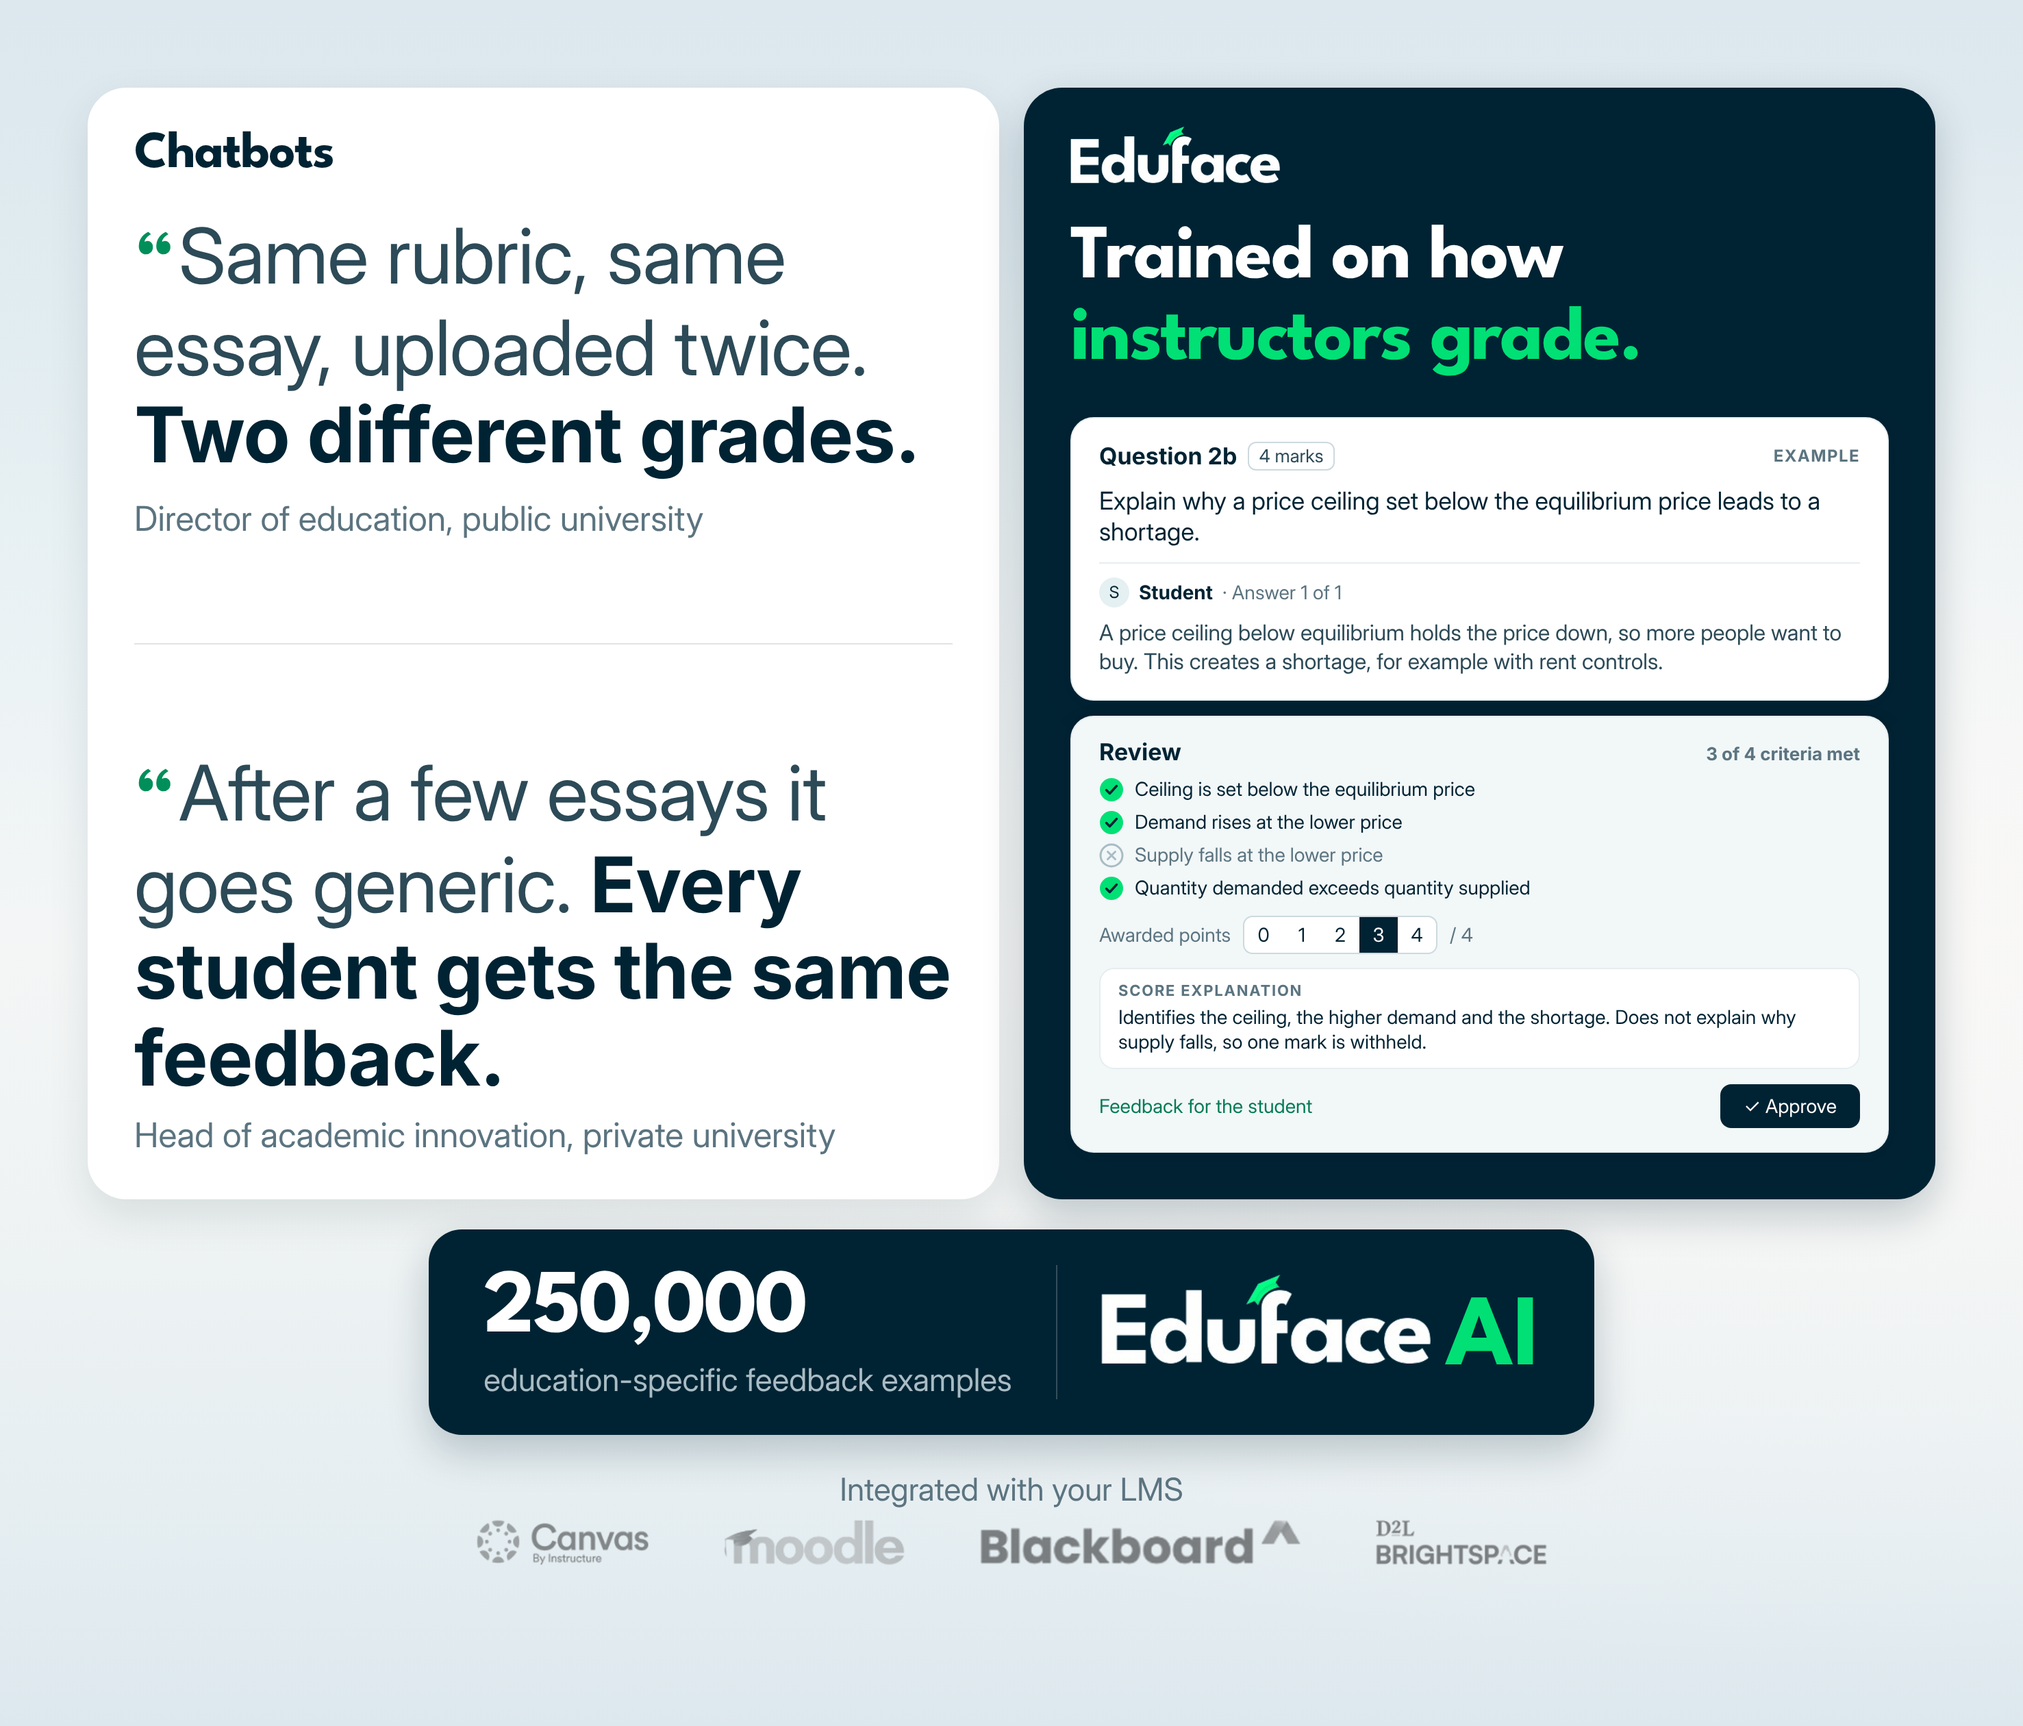
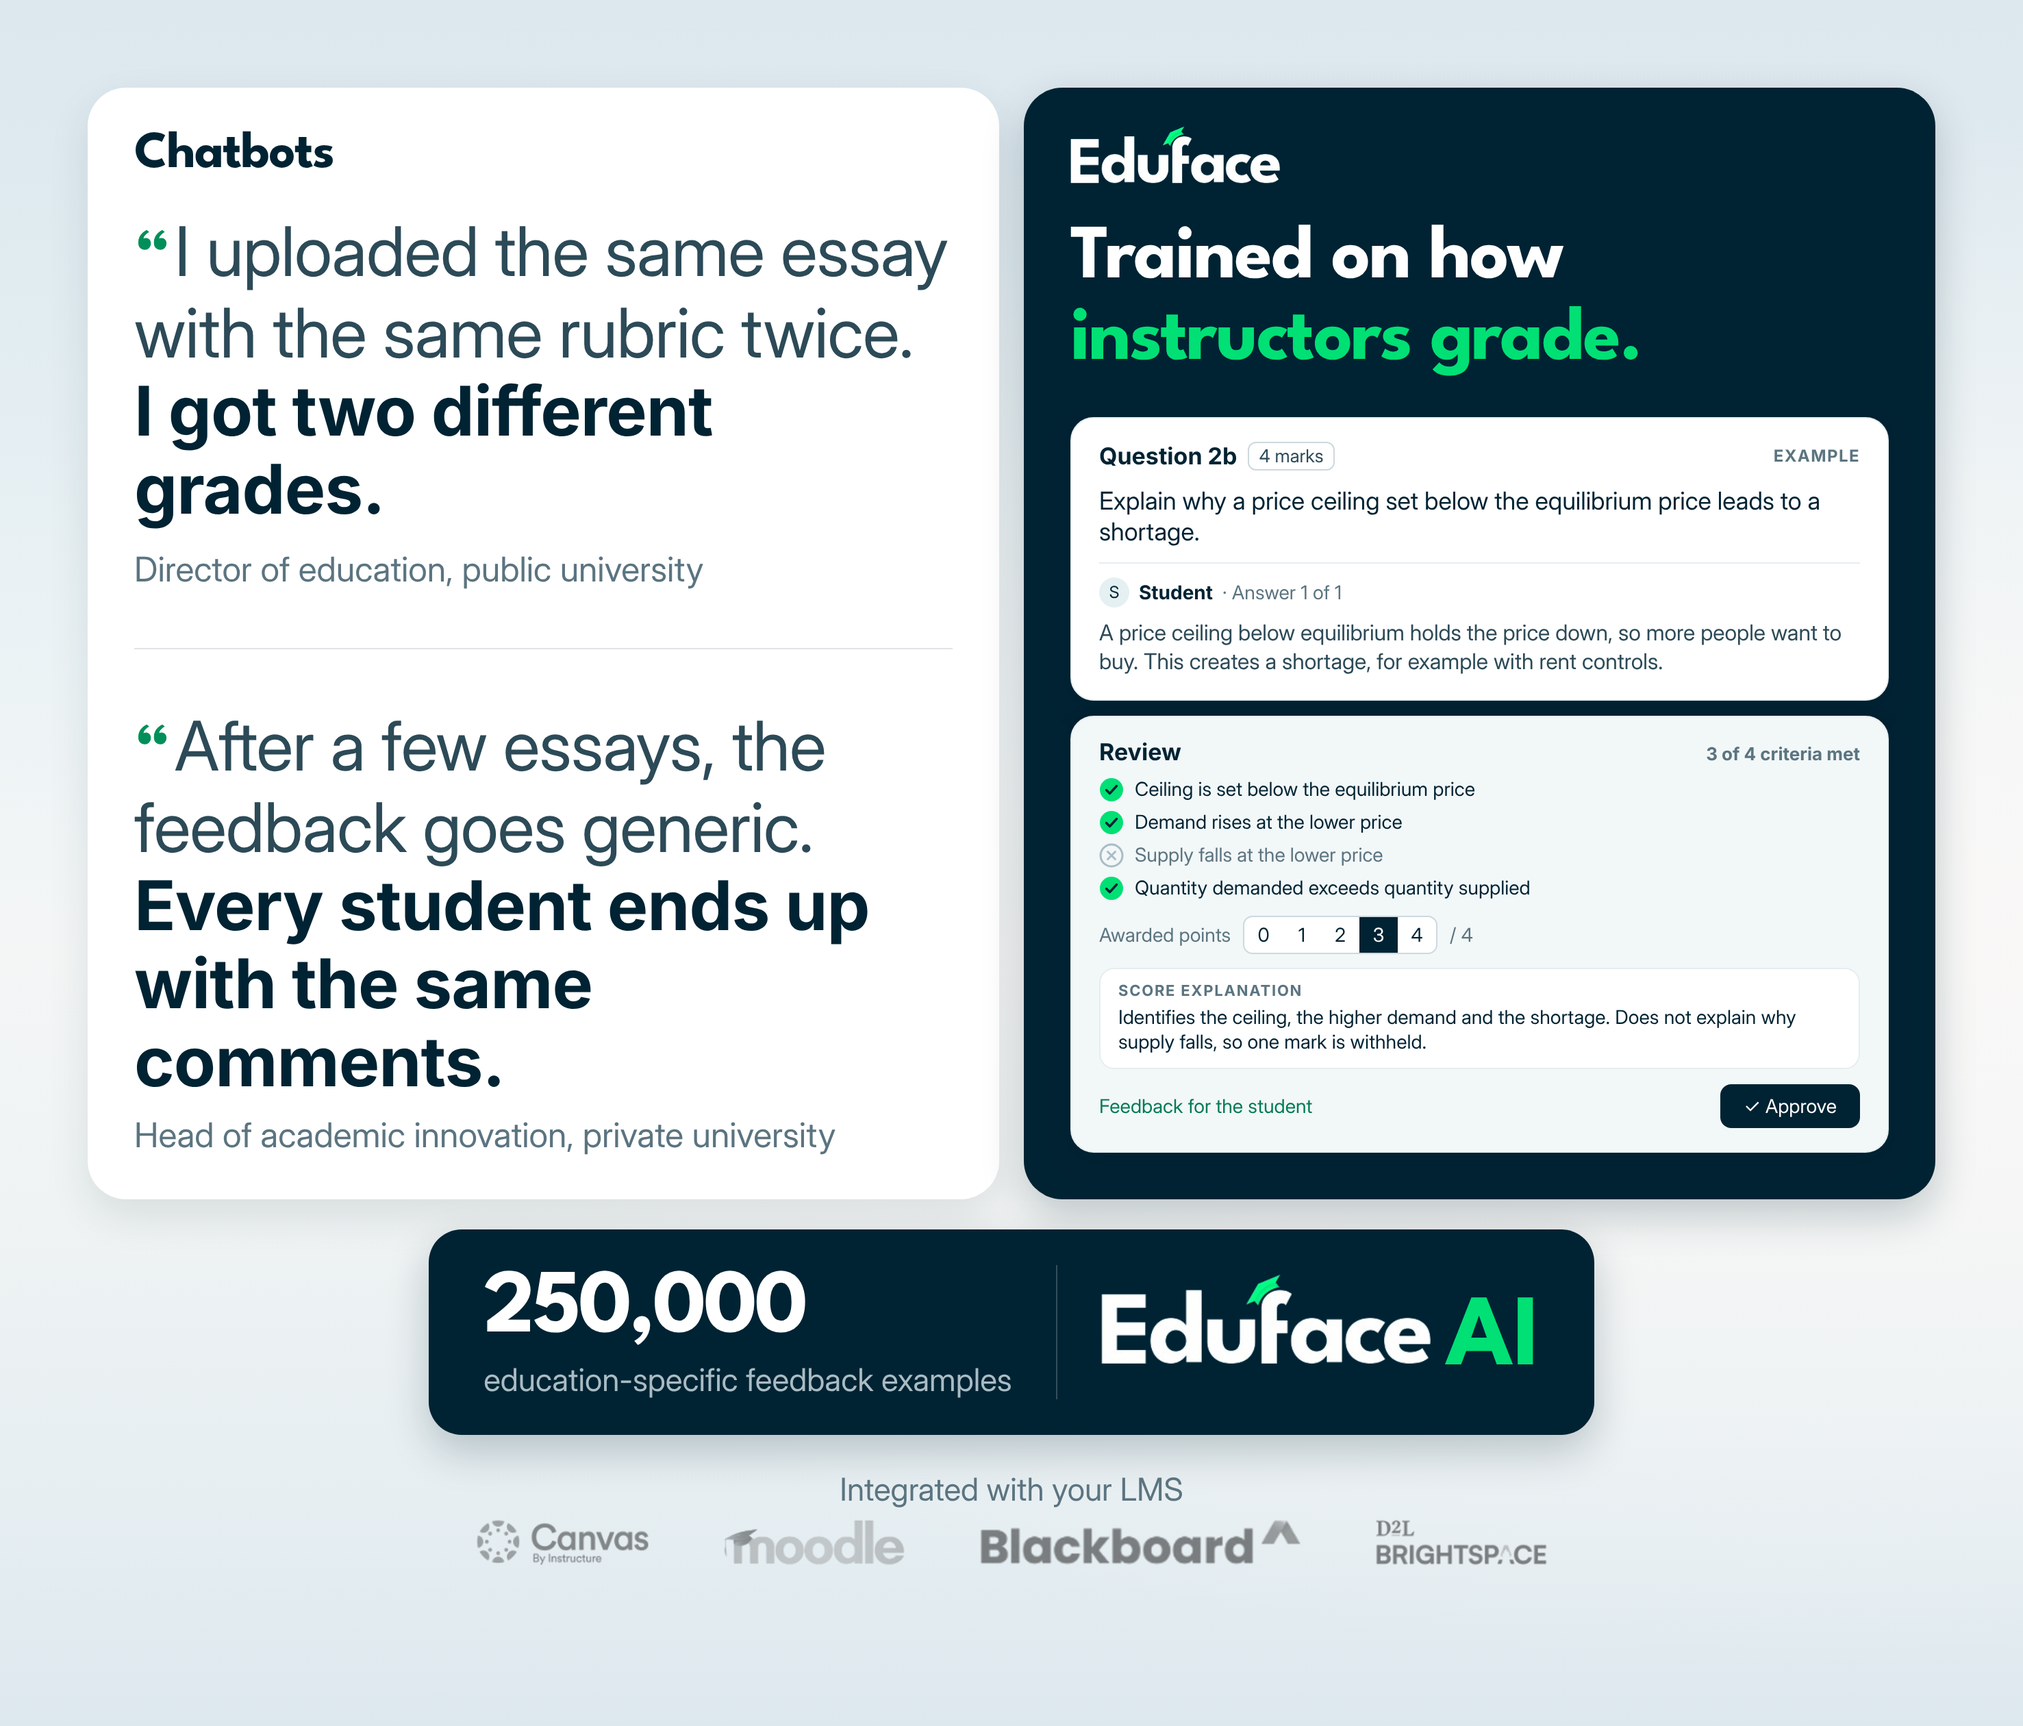
Backwall: nieuwe quotes (same essay twice, generic feedback)
Claude-Session: https://claude.ai/code/session_011t24oRcD5DFuXzKigdVhtb

Changed region(s): [[0.0623, 0.1238, 0.4672, 0.3405], [0.0623, 0.4024, 0.4672, 0.65]]

diff --git a/creatives/beurs-backwall/backwall-quotes-oud-2026-11-25.html b/creatives/beurs-backwall/backwall-quotes-oud-2026-11-25.html
@@ -1,0 +1,122 @@
+<!doctype html>
+<html lang="en">
+<head>
+<meta charset="utf-8">
+<title>Beurs backwall</title>
+<style>
+  /* Canvas: 1 px = 1 mm. Wand 2954 x 2520 mm. De kop van de gevel staat NIET op de wand.
+     Links licht = Chatbots (het probleem, twee quotes), rechts navy = Eduface (een boodschap + productscreenshot).
+     Daaronder een rustig wit blok (250,000 en Eduface AI), dan de LMS-rij gecentreerd.
+     Lettersysteem: Inter 92 (quotes) / League Spartan 92 (kop rechts) / League Spartan 76 (vlakkoppen) / Inter 46 (bronnen, labels). */
+  @font-face { font-family: "League Spartan"; font-weight: 700; src: url("../../Design/Merk/fonts/LeagueSpartan-Bold.ttf"); }
+  @font-face { font-family: "Inter"; font-weight: 400; src: url("../../Design/Merk/fonts/Inter-Regular.ttf"); }
+  @font-face { font-family: "Inter"; font-weight: 700; src: local("Inter Bold"), local("Inter-Bold"), url("file:///usr/share/fonts/opentype/inter/Inter-Bold.otf"); }
+  :root { --w: 2954px; --h: 2520px; --navy: #002333; --g: #00e075; --g6: #008f5a; --i7: #2c4a57; --i5: #5b7480; --i3: #a9bcc4; --i50: #f3f7f8; }
+  * { margin: 0; box-sizing: border-box; }
+  html, body { width: var(--w); height: var(--h); }
+  .wall {
+    position: relative; width: var(--w); height: var(--h); overflow: hidden; color: var(--navy);
+    background:
+      radial-gradient(ellipse 80% 45% at 90% 52%, #f9f8f7 0%, rgba(249,248,247,0) 100%),
+      linear-gradient(180deg, #dce7ee 0%, #e2edf1 20%, #ecf3f5 40%, #f4f6f6 55%, #eff3f3 70%, #e4edf1 90%, #dde8ee 100%);
+  }
+  .g { position: absolute; left: 128px; top: 128px; width: 2698px; display: grid; grid-template-columns: 1331px 1331px; column-gap: 36px; }
+  .pl, .pr { border-radius: 56px; box-shadow: 0 24px 60px rgba(0,35,51,.10); }
+  .pl { grid-column: 1; grid-row: 1; background: #fff; box-shadow: 0 24px 60px rgba(0,35,51,.10); color: var(--navy); padding: 56px 68px 64px; display: flex; flex-direction: column; justify-content: flex-start; gap: 52px; }
+  .pr { grid-column: 2; grid-row: 1; background: var(--navy); box-shadow: 0 24px 60px rgba(0,35,51,.22); padding: 56px 68px 68px; display: flex; flex-direction: column; gap: 52px; color: #fff; }
+
+  .hd { font: 700 76px/1 "League Spartan"; letter-spacing: -.02em; color: var(--navy); height: 84px; display: flex; align-items: center; }
+  .pr img.lg { height: 84px; width: auto; align-self: flex-start; }
+
+  .qt { font: 400 112px/1.13 Inter; color: var(--i7); letter-spacing: -.01em; }
+  .qt .qm { font: 700 112px/1 "League Spartan"; color: var(--g6); margin-right: 8px; }
+  .qt mark { background: none; color: var(--navy); font-weight: 700; }
+  .who { font: 400 50px/1.2 Inter; color: var(--i5); margin-top: 20px; }
+  .qs { flex: 1; display: flex; flex-direction: column; justify-content: space-between; }
+  .dv { height: 2px; background: rgba(0,35,51,.12); }
+  .qs .q:first-child .qt { position: relative; top: -10px; }   /* bovenkant tekst gelijk met de kop rechts */
+
+  .eh { font: 700 112px/1.06 "League Spartan"; letter-spacing: -.02em; color: #fff; }
+  .eh span { color: var(--g); }
+  /* nagebouwd voorbeeld van het reviewscherm (Economics, UK). Verzonnen inhoud, daarom gelabeld als Example. */
+  .mock { margin-top: auto; width: 100%; display: flex; flex-direction: column; gap: 22px; font-family: Inter, sans-serif; color: var(--navy); }
+  .m1, .m2 { border-radius: 34px; padding: 34px 40px; box-shadow: 0 4px 12px rgba(0,35,51,.08), 0 18px 40px rgba(0,35,51,.12); }
+  .m1 { background: #fff; border: 2px solid #e6edf0; }
+  .m2 { background: #f2f7f8; border: 2px solid #e6edf0; }
+  .m1 .top { display: flex; align-items: center; gap: 16px; }
+  .m1 .qn { font: 700 34px/1 Inter; } .m2 .qn { font: 700 34px/1 Inter; }
+  .pill2 { font: 400 26px/1 Inter; border: 2px solid #cdd9de; border-radius: 12px; padding: 6px 14px; color: var(--i7); }
+  .ex { margin-left: auto; font: 700 24px/1 Inter; letter-spacing: .06em; text-transform: uppercase; color: var(--i5); }
+  .m1 .q { font: 500 36px/1.25 Inter; margin: 22px 0 22px; }
+  .m1 hr { border: 0; border-top: 2px solid #e6edf0; margin: 0 0 20px; }
+  .who2 { display: flex; align-items: center; gap: 14px; font: 700 28px/1 Inter; }
+  .who2 .av { width: 44px; height: 44px; border-radius: 50%; background: #e4f0f2; display: flex; align-items: center; justify-content: center; font: 500 24px/1 Inter; }
+  .who2 .an { font-weight: 400; color: var(--i5); }
+  .ans { font: 400 32px/1.3 Inter; color: var(--i7); margin-top: 16px; }
+  .m2 .hdr { display: flex; justify-content: space-between; align-items: baseline; }
+  .m2 .met { font: 700 26px/1 Inter; color: var(--i5); }
+  .crit { display: flex; flex-direction: column; gap: 12px; margin: 20px 0 22px; }
+  .cr { display: flex; align-items: center; gap: 16px; font: 400 28px/1.2 Inter; }
+  .cr svg { flex: none; width: 36px; height: 36px; }
+  .cr.no { color: var(--i5); }
+  .pts { display: flex; align-items: center; gap: 18px; font: 400 28px/1 Inter; color: var(--i5); }
+  .seg { display: flex; border: 2px solid #cdd9de; border-radius: 14px; overflow: hidden; background: #fff; }
+  .seg span { width: 56px; height: 52px; display: flex; align-items: center; justify-content: center; font: 500 28px/1 Inter; color: var(--navy); }
+  .seg span.on { background: var(--navy); color: #fff; }
+  .expl { background: #fff; border: 2px solid #e6edf0; border-radius: 22px; padding: 20px 26px; margin: 20px 0 22px; }
+  .expl .lb { font: 700 22px/1 Inter; letter-spacing: .08em; color: var(--i5); }
+  .expl .tx { font: 400 28px/1.3 Inter; margin-top: 10px; }
+  .foot2 { display: flex; justify-content: space-between; align-items: center; }
+  .fb { font: 500 28px/1 Inter; color: #007b54; }
+  .appr { background: var(--navy); color: #fff; border-radius: 16px; padding: 18px 34px; font: 500 28px/1 Inter; display: flex; align-items: center; gap: 12px; }
+
+  /* wit blok: Eduface AI en 250,000 vormen een geheel, in het midden */
+  .ai { grid-column: 1 / 3; grid-row: 2; justify-self: center; width: fit-content; margin-top: 44px; background: var(--navy); border-radius: 48px; padding: 52px 80px; display: flex; align-items: center; justify-content: center; gap: 64px;
+        box-shadow: 0 24px 60px rgba(0,35,51,.22); }
+  .lock { display: flex; align-items: baseline; gap: 22px; }
+  .lock img { height: 132px; width: auto; }
+  .lock .aitxt { font: 700 148px/1 "League Spartan"; color: var(--g); letter-spacing: -.01em; }
+  .ai .sep { width: 2px; align-self: stretch; background: rgba(255,255,255,.2); }
+  .ai .n { font: 700 132px/1 "League Spartan"; letter-spacing: -.03em; color: #fff; }
+  .ai .l { font: 400 46px/1.2 Inter; color: var(--i3); margin-top: 8px; }
+
+  .lms { grid-column: 1 / 3; grid-row: 3; justify-self: center; margin-top: 56px; display: flex; flex-direction: column; align-items: center; gap: 22px; }
+  .lms .lab { font: 400 46px/1 Inter; color: var(--i5); white-space: nowrap; }
+  .lms .row { display: flex; align-items: center; justify-content: center; gap: 110px; }
+  .lms img { height: 66px; width: auto; filter: grayscale(1) contrast(.9); opacity: .5; }
+</style>
+</head>
+<body>
+  <div class="wall" id="wall">
+    <div id="layer-content"></div>
+  </div>
+
+<script>
+const R0='Director of education, public university', R1='Head of academic innovation, private university';
+/* Quotes: formulering van Dante, 25-11-2026. Quote 2: bron in de case study, herschreven zin nog niet aan die persoon voorgelegd (V15). Quote 1: bronregel volgens Dante, klopt mogelijk niet (V17). */
+const Q=[{t:'Same rubric, same essay, uploaded twice. <mark>Two different grades.</mark>',w:R0},
+         {t:'After a few essays it goes generic. <mark>Every student gets the same feedback.</mark>',w:R1}];
+const left=`<div class="pl"><div class="hd">Chatbots</div><div class="qs">`+Q.map(q=>`<div class="q"><div class="qt"><span class="qm">\u201C</span>${q.t}</div><div class="who">${q.w}</div></div>`).join('<div class="dv"></div>')+`</div></div>`;
+const right=`<div class="pr"><img class="lg" src="assets/logos/eduface-white.png"><div class="eh">Trained on how <span>instructors grade.</span></div>
+  <div class="mock">
+    <div class="m1"><div class="top"><div class="qn">Question 2b</div><div class="pill2">4 marks</div><div class="ex">Example</div></div>
+      <div class="q">Explain why a price ceiling set below the equilibrium price leads to a shortage.</div><hr>
+      <div class="who2"><div class="av">S</div>Student <span class="an">&middot; Answer 1 of 1</span></div>
+      <div class="ans">A price ceiling below equilibrium holds the price down, so more people want to buy. This creates a shortage, for example with rent controls.</div></div>
+    <div class="m2"><div class="hdr"><div class="qn">Review</div><div class="met">3 of 4 criteria met</div></div>
+      <div class="crit">
+        <div class="cr"><svg viewBox="0 0 36 36"><circle cx="18" cy="18" r="17" fill="#00e075"/><path d="M10.5 18.5l5 5 10-11" fill="none" stroke="#002333" stroke-width="3.4" stroke-linecap="round" stroke-linejoin="round"/></svg>Ceiling is set below the equilibrium price</div>
+        <div class="cr"><svg viewBox="0 0 36 36"><circle cx="18" cy="18" r="17" fill="#00e075"/><path d="M10.5 18.5l5 5 10-11" fill="none" stroke="#002333" stroke-width="3.4" stroke-linecap="round" stroke-linejoin="round"/></svg>Demand rises at the lower price</div>
+        <div class="cr no"><svg viewBox="0 0 36 36"><circle cx="18" cy="18" r="16" fill="none" stroke="#a9bcc4" stroke-width="3"/><path d="M12.5 12.5l11 11M23.5 12.5l-11 11" stroke="#a9bcc4" stroke-width="3" stroke-linecap="round"/></svg>Supply falls at the lower price</div>
+        <div class="cr"><svg viewBox="0 0 36 36"><circle cx="18" cy="18" r="17" fill="#00e075"/><path d="M10.5 18.5l5 5 10-11" fill="none" stroke="#002333" stroke-width="3.4" stroke-linecap="round" stroke-linejoin="round"/></svg>Quantity demanded exceeds quantity supplied</div></div>
+      <div class="pts">Awarded points<div class="seg"><span>0</span><span>1</span><span>2</span><span class="on">3</span><span>4</span></div><span>/ 4</span></div>
+      <div class="expl"><div class="lb">SCORE EXPLANATION</div><div class="tx">Identifies the ceiling, the higher demand and the shortage. Does not explain why supply falls, so one mark is withheld.</div></div>
+      <div class="foot2"><div class="fb">Feedback for the student</div><div class="appr">&#10003; Approve</div></div></div>
+  </div></div>`;
+const ai=`<div class="ai"><div><div class="n">250,000</div><div class="l">education-specific feedback examples</div></div><div class="sep"></div>
+  <div class="lock"><img src="assets/logos/eduface-white.png"><div class="aitxt">AI</div></div></div>`;
+const lms=`<div class="lms"><div class="lab">Integrated with your LMS</div><div class="row"><img src="assets/logos/lms-canvas.png"><img src="assets/logos/lms-moodle.png"><img src="assets/logos/lms-blackboard.png"><img src="assets/logos/lms-brightspace.png"></div></div>`;
+document.getElementById('layer-content').innerHTML=`<div class="g">${left}${right}${ai}${lms}</div>`;
+</script>
+</body>
+</html>

diff --git a/creatives/beurs-backwall/backwall.html b/creatives/beurs-backwall/backwall.html
@@ -28,8 +28,8 @@
   .hd { font: 700 76px/1 "League Spartan"; letter-spacing: -.02em; color: var(--navy); height: 84px; display: flex; align-items: center; }
   .pr img.lg { height: 84px; width: auto; align-self: flex-start; }
 
-  .qt { font: 400 112px/1.13 Inter; color: var(--i7); letter-spacing: -.01em; }
-  .qt .qm { font: 700 112px/1 "League Spartan"; color: var(--g6); margin-right: 8px; }
+  .qt { font: 400 100px/1.14 Inter; color: var(--i7); letter-spacing: -.01em; }
+  .qt .qm { font: 700 100px/1 "League Spartan"; color: var(--g6); margin-right: 8px; }
   .qt mark { background: none; color: var(--navy); font-weight: 700; }
   .who { font: 400 50px/1.2 Inter; color: var(--i5); margin-top: 20px; }
   .qs { flex: 1; display: flex; flex-direction: column; justify-content: space-between; }
@@ -94,8 +94,8 @@
 <script>
 const R0='Director of education, public university', R1='Head of academic innovation, private university';
 /* Quotes: formulering van Dante, 25-11-2026. Quote 2: bron in de case study, herschreven zin nog niet aan die persoon voorgelegd (V15). Quote 1: bronregel volgens Dante, klopt mogelijk niet (V17). */
-const Q=[{t:'Same rubric, same essay, uploaded twice. <mark>Two different grades.</mark>',w:R0},
-         {t:'After a few essays it goes generic. <mark>Every student gets the same feedback.</mark>',w:R1}];
+const Q=[{t:'I uploaded the same essay with the same rubric twice. <mark>I&nbsp;got two different grades.</mark>',w:R0},
+         {t:'After a few essays, the feedback goes generic. <mark>Every student ends up with the same comments.</mark>',w:R1}];
 const left=`<div class="pl"><div class="hd">Chatbots</div><div class="qs">`+Q.map(q=>`<div class="q"><div class="qt"><span class="qm">\u201C</span>${q.t}</div><div class="who">${q.w}</div></div>`).join('<div class="dv"></div>')+`</div></div>`;
 const right=`<div class="pr"><img class="lg" src="assets/logos/eduface-white.png"><div class="eh">Trained on how <span>instructors grade.</span></div>
   <div class="mock">
